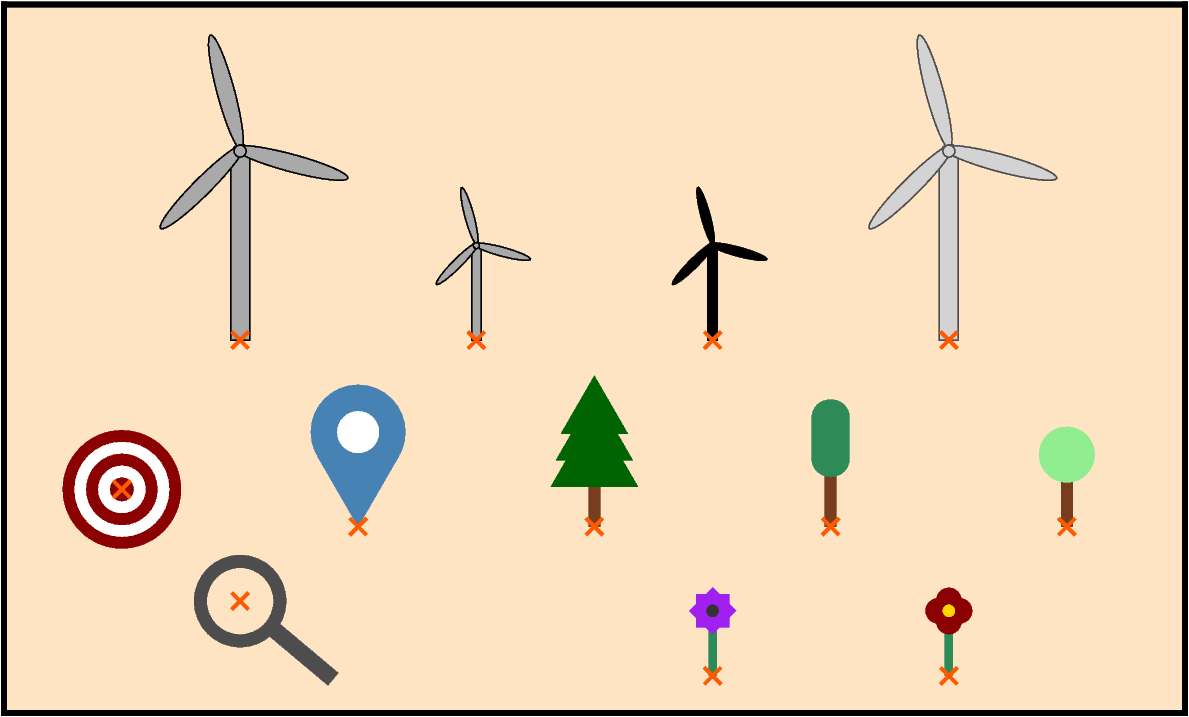
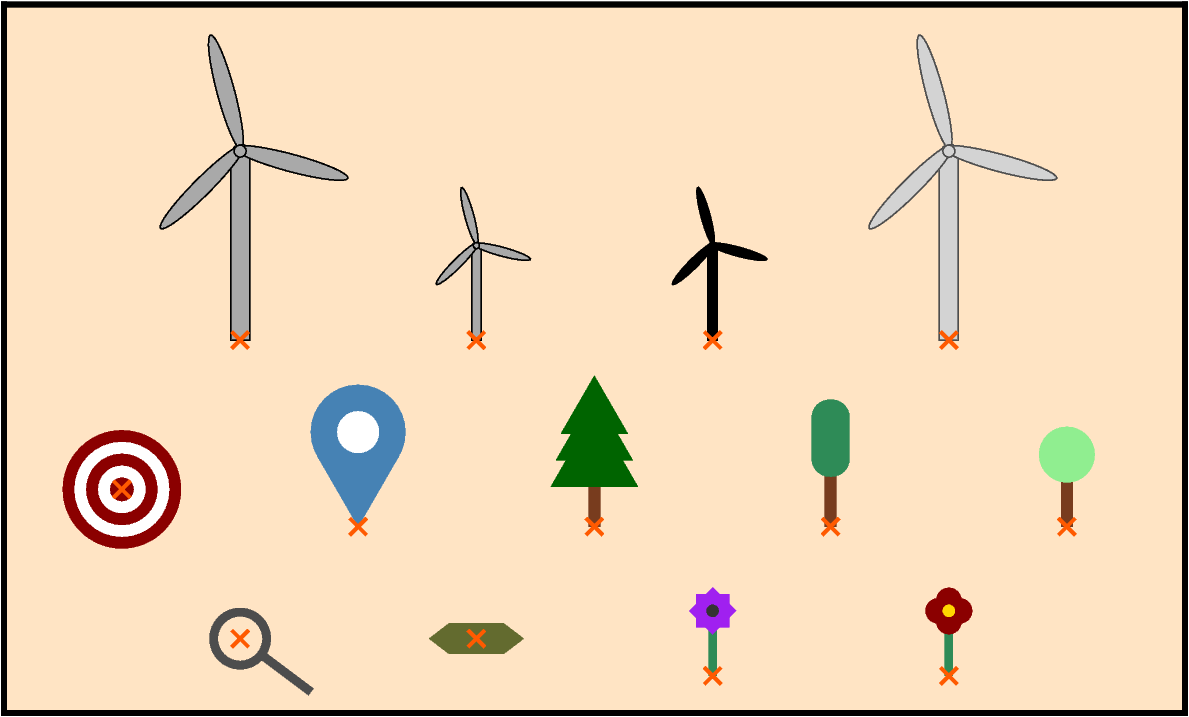
000_general_stuff/01_custom_symbols: Add symbol for olivine crystal, improve symbol for lens (#174)

Changed region(s): [[0.1556, 0.7671, 0.2801, 0.9819], [0.3423, 0.8591, 0.4357, 0.9205]]

diff --git a/000_general_stuff/01_custom_symbols/custom_symbols.py b/000_general_stuff/01_custom_symbols/custom_symbols.py
@@ -10,9 +10,10 @@
 # -----------------------------------------------------------------------------
 # History
 # - Created: 2024/05/16
-# - Updated: 2025/08/02 - Add more symbols (earthquake, marker, trees)
-# - Updated: 2025/08/03 - Add more symbols (flowers)
-# - Updated: 2025/08/13 - Add more symbols (lense)
+# - Updated: 2025/08/02 - Add symbols for earthquake, marker, trees
+# - Updated: 2025/08/03 - Add symbols for flowers
+# - Updated: 2025/08/13 - Add symbol for lens
+# - Updated: 2026/05/10 - Add symbol for olivine crystal, improve symbol for lens
 # -----------------------------------------------------------------------------
 # Versions
 # - PyGMT v0.18.0 -> https://www.pygmt.org
@@ -42,14 +43,15 @@ fig.plot(x=0, y=-1.5, style="kpinetree_yf.def/1c", fill="darkgreen")
 fig.plot(x=2, y=-1.5, style="kpoplar_yf.def/1c", fill="seagreen")
 fig.plot(x=4, y=-1.5, style="ktree_circle_yf.def/1c", fill="lightgreen")
 
+fig.plot(x=-3, y=-3, style="klens_yf.def/1c", pen="2p,gray30")
+fig.plot(x=-1, y=-3, style="kolivine_crystal_yf.def/1c", fill="99/107/47")
 fig.plot(x=1, y=-3.5, style="kflower_square_yf.def/1c", fill="purple")
 fig.plot(x=3, y=-3.5, style="kflower_circle_yf.def/1c", fill="darkred")
-fig.plot(x=-3, y=-2.5, style="klense_yf.def/1.5c", pen="3p,gray30")
 
 # Mark plotting points
 fig.plot(
-    x=[-3, -1, 1, 3, -4, -2, 0, 2, 4, -3, 1, 3],
-    y=[1, 1, 1, 1, -1, -1.5, -1.5, -1.5, -1.5, -2.5, -3.5, -3.5],
+    x=[-3, -1, 1, 3, -4, -2, 0, 2, 4, -3, -1, 1, 3],
+    y=[1, 1, 1, 1, -1, -1.5, -1.5, -1.5, -1.5, -3, -3, -3.5, -3.5],
     style="x0.2c",
     fill="255/90/0",
 )
